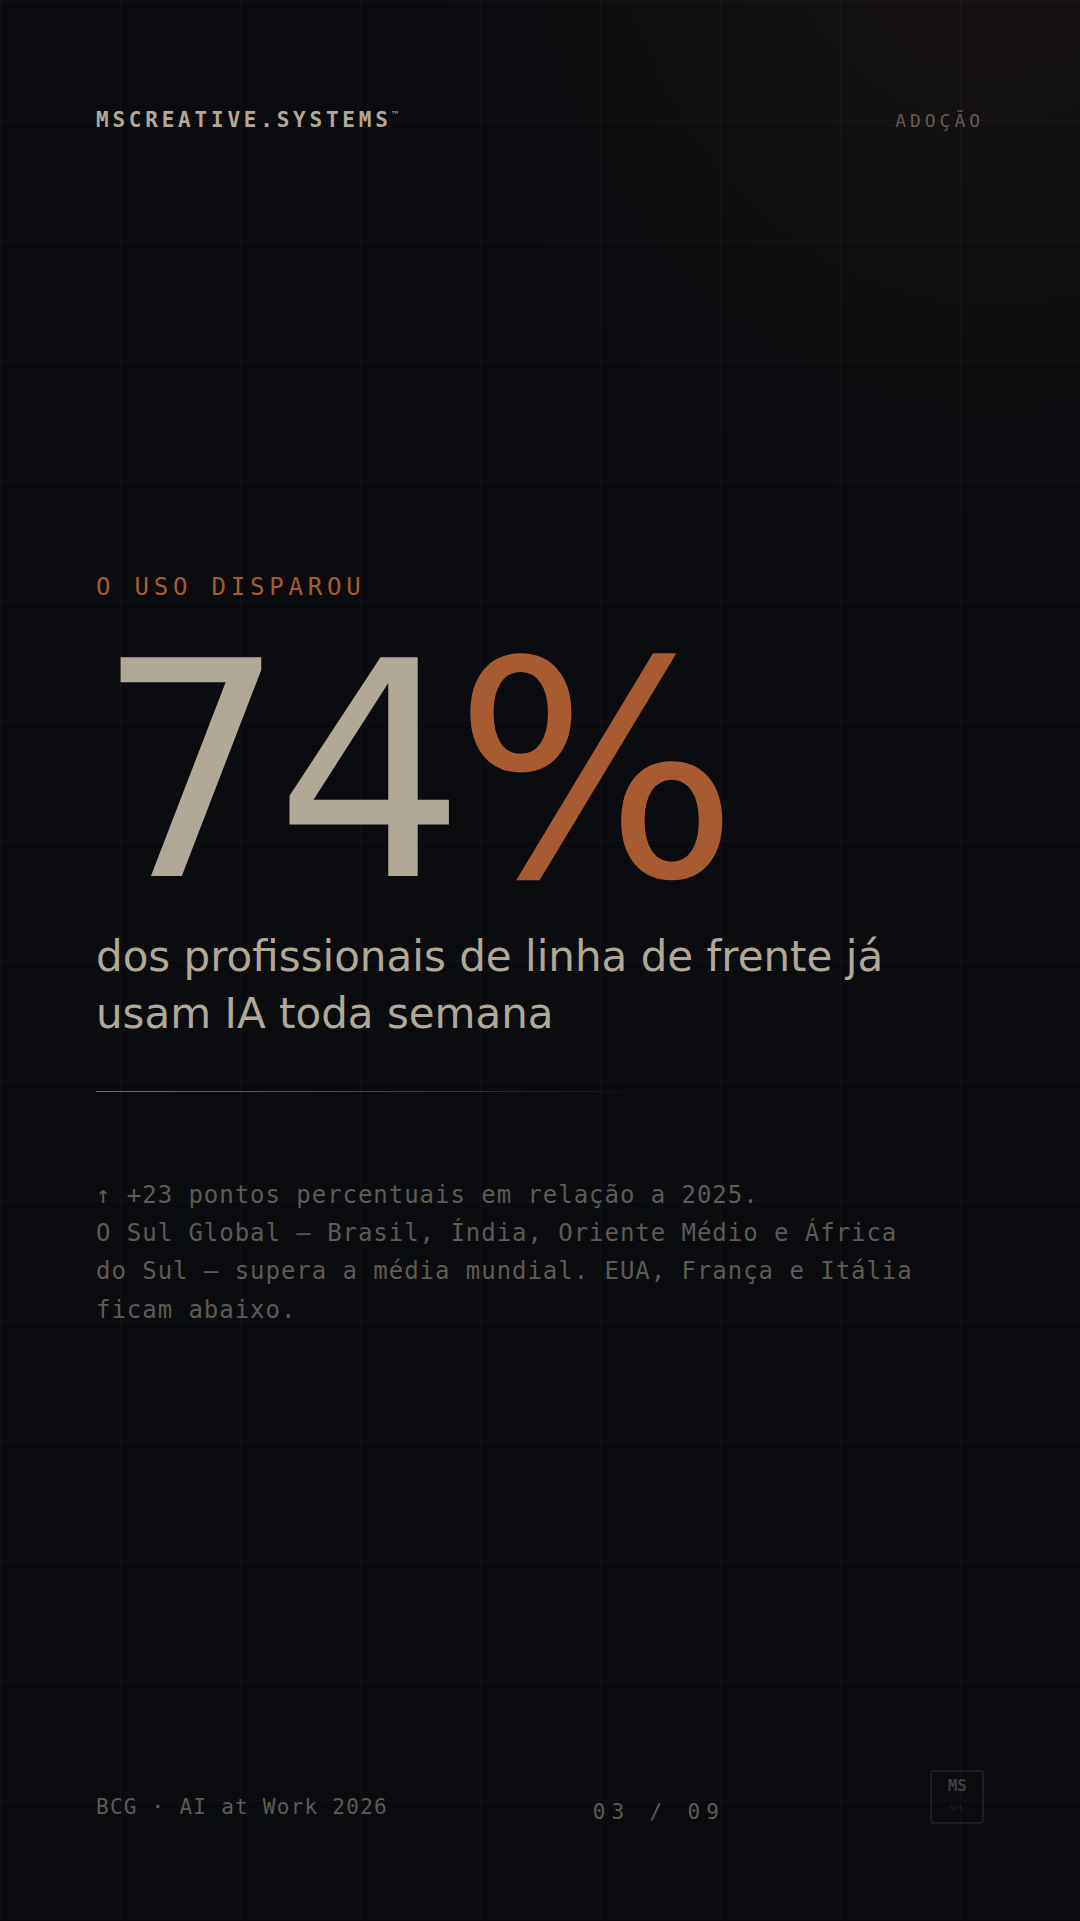
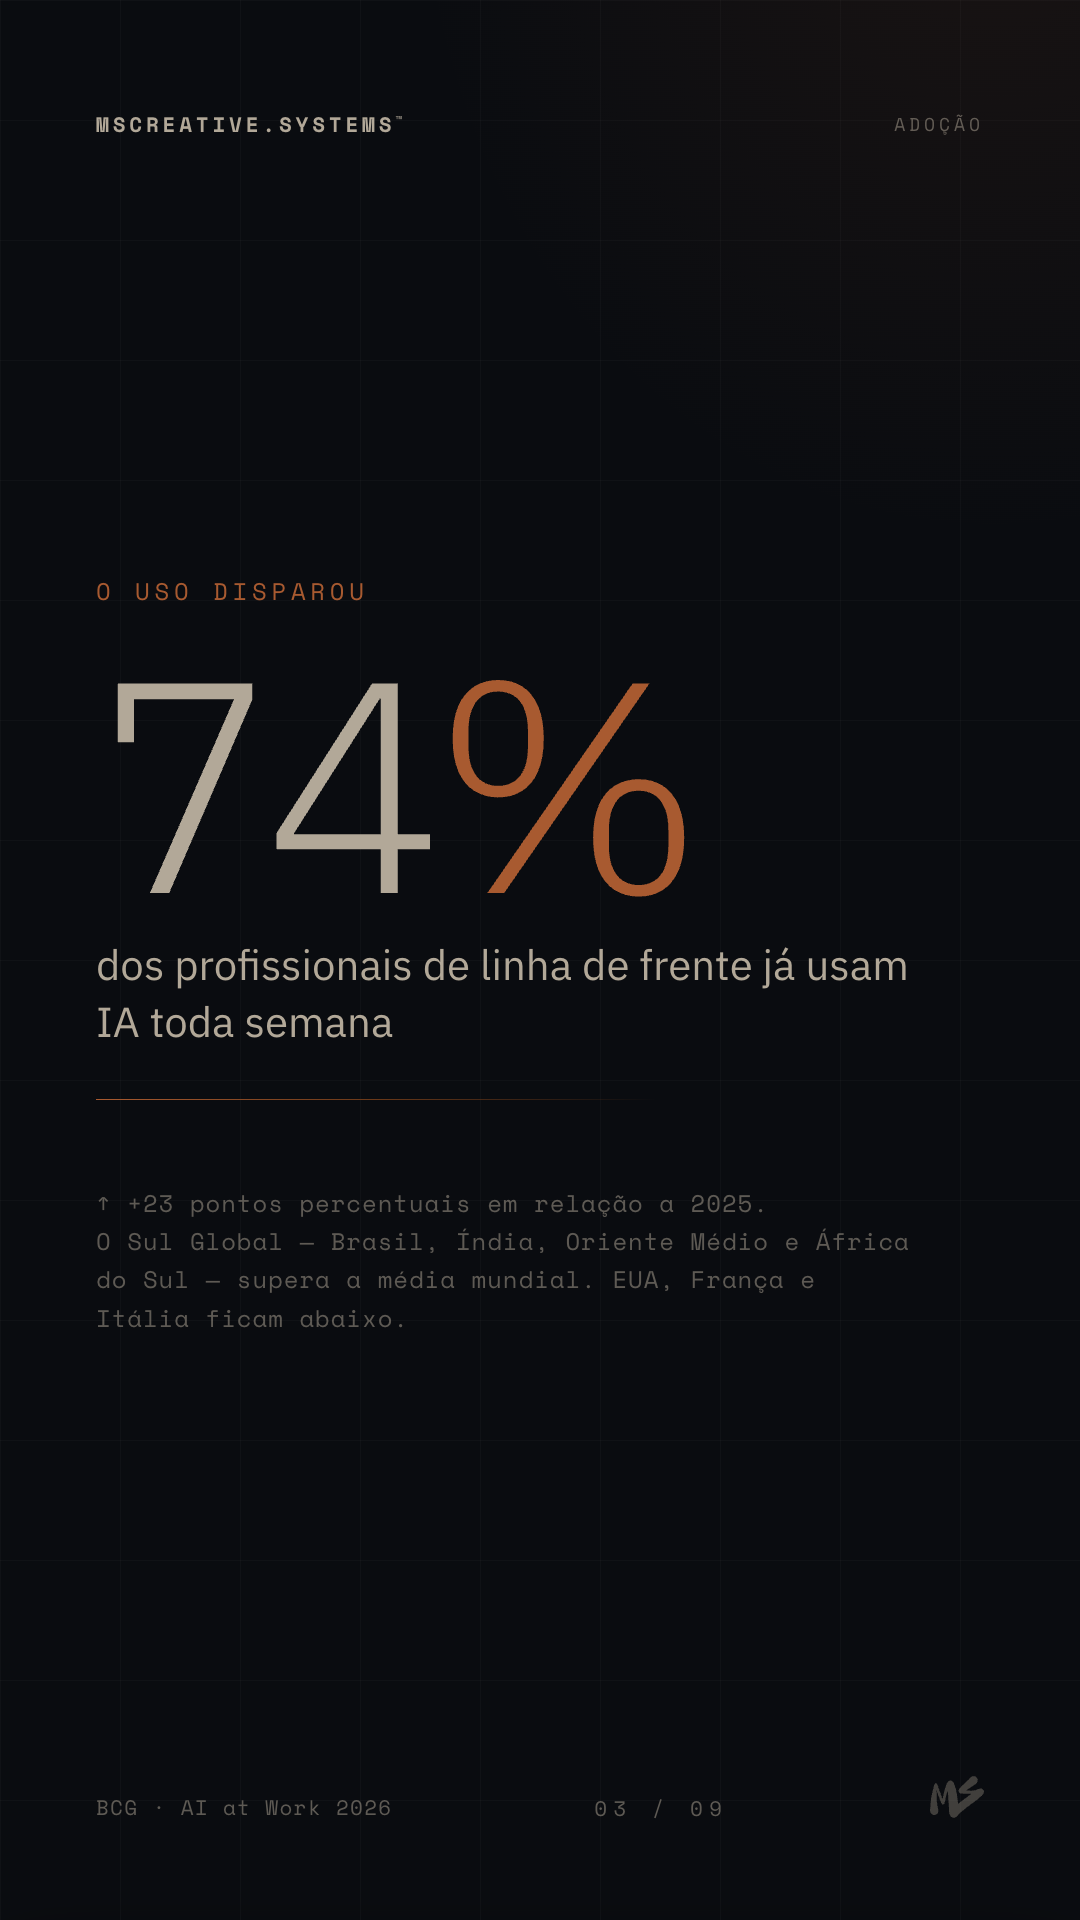
Usa monograma oficial MS nos stories

diff --git a/stories/bcg-ai-at-work-2026-stories.html b/stories/bcg-ai-at-work-2026-stories.html
@@ -158,13 +158,8 @@
 
   <!-- Monograma MS (símbolo reutilizável) -->
   <svg width="0" height="0" style="position:absolute" aria-hidden="true">
-    <symbol id="ms-mono" viewBox="0 0 100 100">
-      <rect x="2" y="2" width="96" height="96" rx="3" fill="none" stroke="currentColor" stroke-width="1.4"/>
-      <line x1="2" y1="50" x2="98" y2="50" stroke="currentColor" stroke-width="0.8" opacity="0.35"/>
-      <text x="50" y="38" text-anchor="middle" font-family="'Space Mono',monospace" font-weight="700"
-            font-size="30" letter-spacing="-1" fill="currentColor">MS</text>
-      <text x="50" y="74" text-anchor="middle" font-family="'Space Mono',monospace" font-weight="400"
-            font-size="11" letter-spacing="1.5" fill="currentColor" opacity="0.7">SYS</text>
+    <symbol id="ms-mono" viewBox="0 0 67.19667 51.75458">
+      <path fill="currentColor" d="M8.15479,17.66986c-.10727,4.76875.03115,9.5285.41527,14.27922.25365,3.1651,1.03955,6.29608,1.74645,9.47888C12.17932,49.84272-.28837,51.03399.0051,42.2846c.35921-10.7694,2.02753-21.07894,5.00492-30.92856.43105-1.41773,1.65413-3.47677,3.2464-2.21435.53746.42306.92911.9969,1.17496,1.72154l5.78538,16.91602c.23584.68769.41046.67353.52387-.04254,1.02383-6.35386,2.74577-12.56867,5.16579-18.64433,2.42341-6.08573,7.57839-4.14271,9.40284.91599,2.77922,7.71993,3.71882,15.26481,4.54493,24.0988.01976.18583.11541.20673.28695.06271,5.16382-4.20649,10.48613-8.20113,15.96693-11.98388.2477-.17071.22158-.25977-.07835-.26709-3.61598-.09368-7.23981-.18066-10.87148-.26095-7.39821-.16475-4.36055-6.1619-1.09576-9.14847,3.1263-2.86316,6.25148-5.72857,9.37556-8.59623,1.40786-1.29146,2.61261-3.41267,5.0914-3.82386,5.89972-.9766,7.89921,6.29685,3.23346,9.68677-3.83797,2.79228-7.80539,5.39743-11.90226,7.81541-.15464.09367-.14189.15021.03827.16962,3.88277.43335,7.73249.3423,11.54916-.27318,2.22015-.35804,3.71273-2.03541,5.76647-2.29809,3.64903-.46082,6.04224,3.15361,4.51287,6.37544-.40245.85424-1.13742,1.76487-2.20492,2.73191-9.11467,8.26941-20.20634,14.6041-28.33323,22.56665-1.08504,1.06379-2.30373,3.42673-3.57933,4.09058-4.6234,2.39615-8.52986-.9142-8.76183-5.62878-.18359-3.7576-1.48526-26.94142-1.86815-26.88513-.09989.01549-.20829.14727-.27434.33352-1.46726,4.3048-2.51335,8.71175-3.13827,13.2209-.12499.90632-.43616,1.72773-.9335,2.46426-1.56103,2.29841-3.54903-.8048-4.06681-2.08179-2.07112-5.11908-3.79413-9.98508-5.16903-14.59797-.02544-.08589-.07445-.14821-.12558-.15976l-.05874-.0085c-.02576-.00602-.05156.01476-.05761.04636-.00077.00405-.00119.00814-.00126.01226Z"/>
     </symbol>
   </svg>
 
